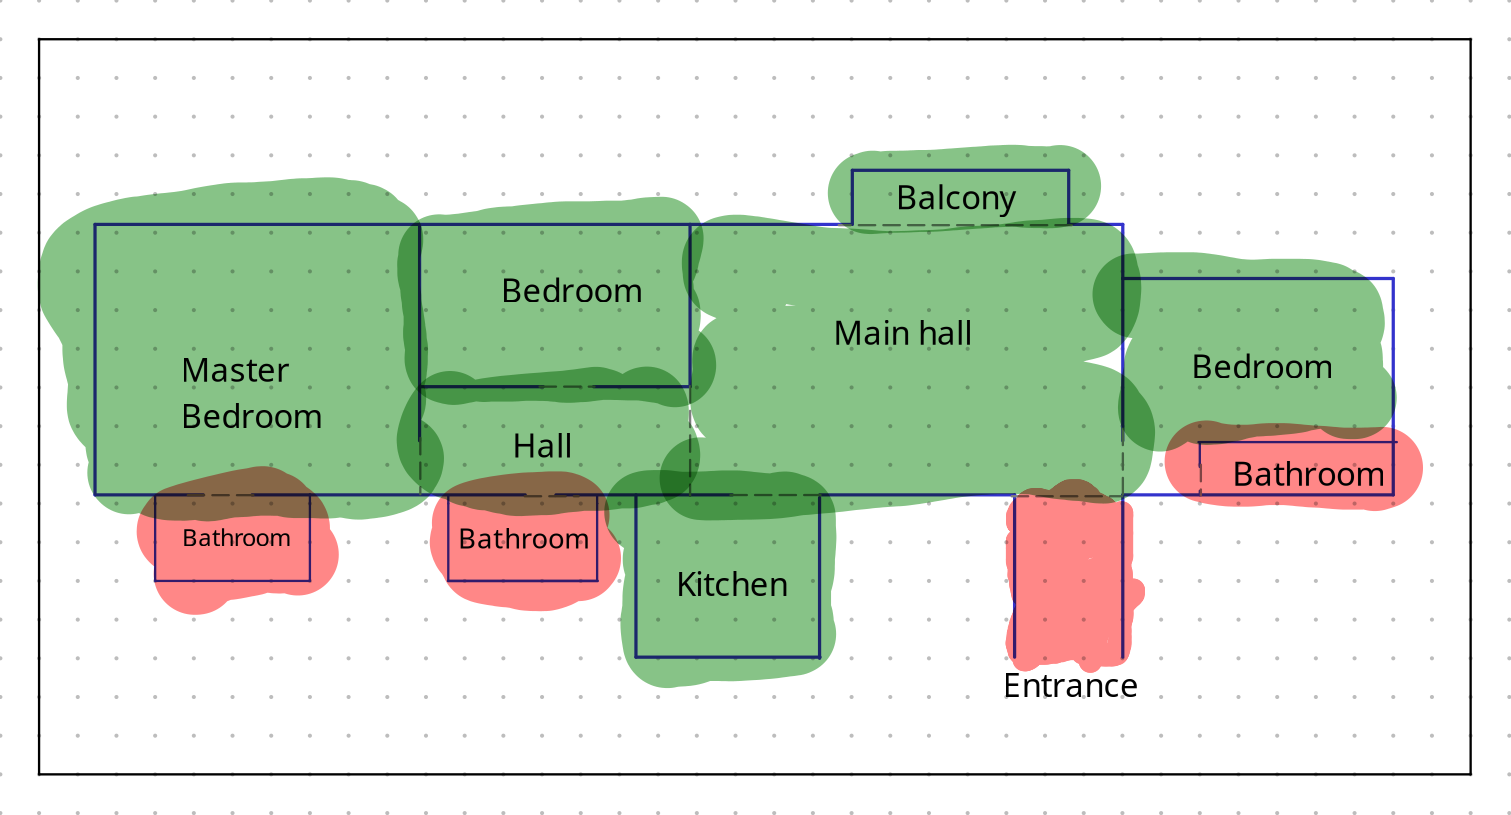
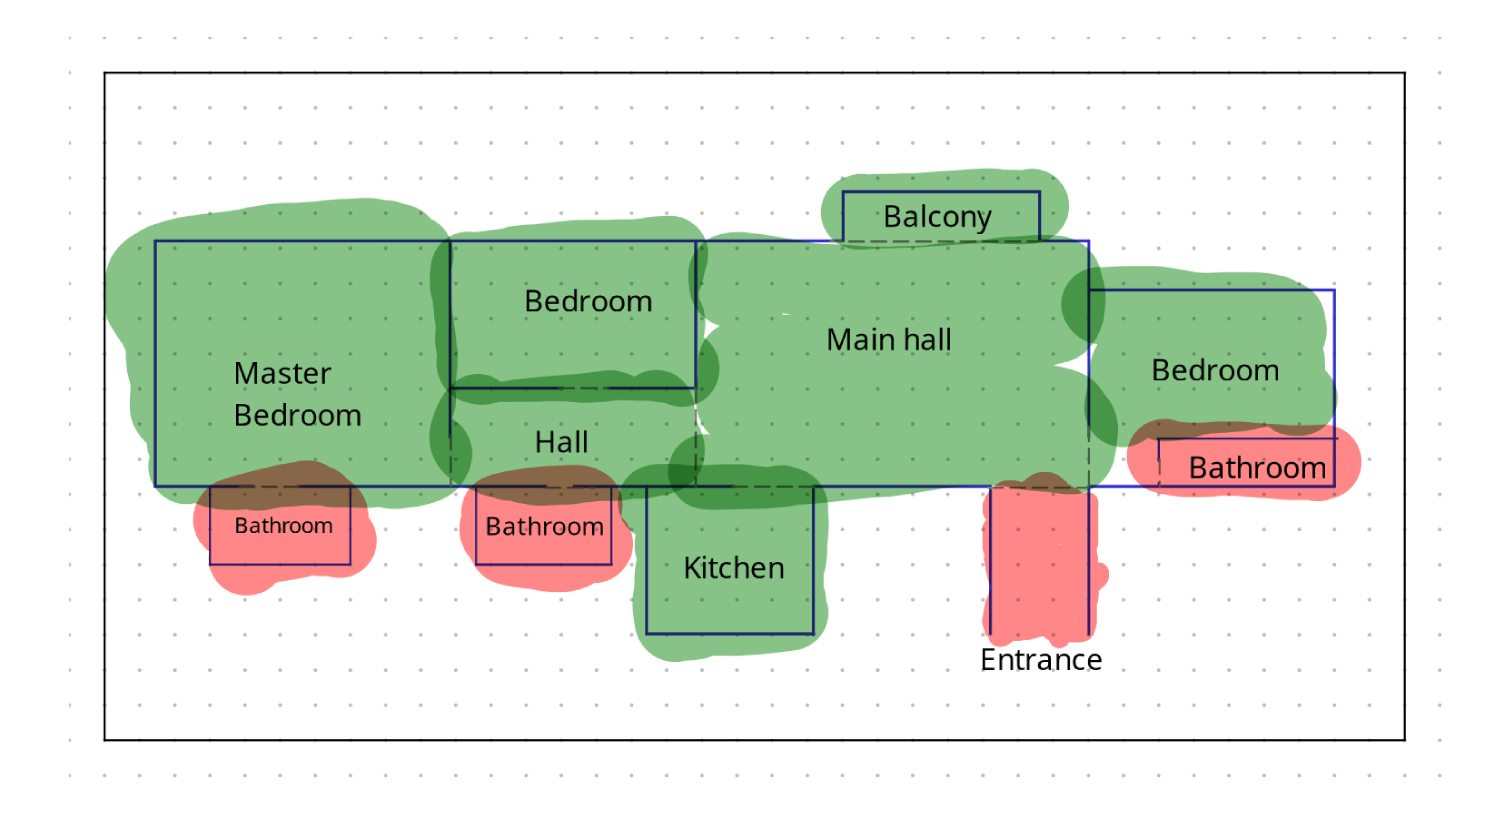
Index content finalized

diff --git a/index.html b/index.html
@@ -4,7 +4,7 @@
     <meta charset="utf-8">
     <meta name="viewport" content="width=device-width, initial-scale=1">
     <meta name="description" content="A student portfolio introducing its author, interests, and selected work.">
-    <title>Introduction — Fieldnotes</title>
+    <title>Introduction — Home</title>
     <link rel="preconnect" href="https://fonts.googleapis.com">
     <link rel="preconnect" href="https://fonts.gstatic.com" crossorigin>
     <link href="https://fonts.googleapis.com/css2?family=DM+Mono:wght@400;500&family=DM+Sans:wght@400;500;600;700&family=Playfair+Display:wght@500;600;700&display=swap" rel="stylesheet">
@@ -12,7 +12,7 @@
   </head>
   <body>
     <header class="site-header">
-      <a class="wordmark" href="index.html" aria-label="Fieldnotes home"><span class="wordmark-mark">F.</span> FIELDNOTES</a>
+      <a class="wordmark" href="index.html" aria-label="Home"><span class="wordmark-mark">H.</span> HOME</a>
       <nav class="site-nav" aria-label="Main navigation">
         <a class="active" aria-current="page" href="index.html">Introduction</a>
         <a href="projects.html">Projects</a>
@@ -64,8 +64,8 @@
             </div>
             <div class="feature-copy">
               <p class="eyebrow">01 / CURRENT PROJECT</p>
-              <h3>Campus energy,<br>made visible.</h3>
-              <p>A sample project exploring how a simple dashboard could help a campus community understand everyday energy use.</p>
+              <h3>Your Home's Energy,<br>at a Glance.</h3>
+              <p>A sample project exploring how a simple dashboard could help you leave your home without the worrying whether you turned off the Heater.</p>
               <span class="text-link">READ THE PROJECT <span aria-hidden="true">↗</span></span>
             </div>
             <span class="feature-arrow" aria-hidden="true">↗</span>
@@ -75,8 +75,8 @@
     </main>
 
     <footer class="site-footer page-shell">
-      <span>FIELDNOTES <span class="footer-muted">— A STUDENT PORTFOLIO TEMPLATE</span></span>
-      <span>MADE WITH CURIOSITY <span aria-hidden="true">✳</span> VIT, VELLORE</span>
+      <span>HOME <span class="footer-muted">— A JOURNEY</span></span>
+      <span>MADE WITH PASSION <span aria-hidden="true">✳</span> VIT, VELLORE</span>
     </footer>
   </body>
 </html>

diff --git a/projects.html b/projects.html
@@ -4,7 +4,7 @@
     <meta charset="utf-8">
     <meta name="viewport" content="width=device-width, initial-scale=1">
     <meta name="description" content="A student project portfolio with methods, progress, and expected results.">
-    <title>Projects — Fieldnotes</title>
+    <title>Projects — Home</title>
     <link rel="preconnect" href="https://fonts.googleapis.com">
     <link rel="preconnect" href="https://fonts.gstatic.com" crossorigin>
     <link href="https://fonts.googleapis.com/css2?family=DM+Mono:wght@400;500&family=DM+Sans:wght@400;500;600;700&family=Playfair+Display:wght@500;600;700&display=swap" rel="stylesheet">
@@ -12,7 +12,7 @@
   </head>
   <body>
     <header class="site-header">
-      <a class="wordmark" href="index.html" aria-label="Fieldnotes home"><span class="wordmark-mark">F.</span> FIELDNOTES</a>
+      <a class="wordmark" href="index.html" aria-label="Home"><span class="wordmark-mark">H.</span> HOME</a>
       <nav class="site-nav" aria-label="Main navigation">
         <a href="index.html">Introduction</a>
         <a class="active" aria-current="page" href="projects.html">Projects</a>
@@ -67,7 +67,7 @@
     </main>
 
     <footer class="site-footer page-shell">
-      <span>FIELDNOTES <span class="footer-muted">— A STUDENT PORTFOLIO TEMPLATE</span></span>
+      <span>HOME <span class="footer-muted">— A STUDENT PORTFOLIO TEMPLATE</span></span>
       <span>MADE WITH CURIOSITY <span aria-hidden="true">✳</span> VIT, VELLORE</span>
     </footer>
   </body>

diff --git a/courses.html b/courses.html
@@ -4,7 +4,7 @@
     <meta charset="utf-8">
     <meta name="viewport" content="width=device-width, initial-scale=1">
     <meta name="description" content="Three important VIT courses and the knowledge and skills gained from them.">
-    <title>Courses — Fieldnotes</title>
+    <title>Courses — Home</title>
     <link rel="preconnect" href="https://fonts.googleapis.com">
     <link rel="preconnect" href="https://fonts.gstatic.com" crossorigin>
     <link href="https://fonts.googleapis.com/css2?family=DM+Mono:wght@400;500&family=DM+Sans:wght@400;500;600;700&family=Playfair+Display:wght@500;600;700&display=swap" rel="stylesheet">
@@ -12,7 +12,7 @@
   </head>
   <body>
     <header class="site-header">
-      <a class="wordmark" href="index.html" aria-label="Fieldnotes home"><span class="wordmark-mark">F.</span> FIELDNOTES</a>
+      <a class="wordmark" href="index.html" aria-label="Home"><span class="wordmark-mark">H.</span> HOME</a>
       <nav class="site-nav" aria-label="Main navigation">
         <a href="index.html">Introduction</a>
         <a href="projects.html">Projects</a>
@@ -66,7 +66,7 @@
     </main>
 
     <footer class="site-footer page-shell">
-      <span>FIELDNOTES <span class="footer-muted">— A STUDENT PORTFOLIO TEMPLATE</span></span>
+      <span>HOME <span class="footer-muted">— A STUDENT PORTFOLIO TEMPLATE</span></span>
       <span>MADE WITH CURIOSITY <span aria-hidden="true">✳</span> VIT, VELLORE</span>
     </footer>
   </body>

diff --git a/writing.html b/writing.html
@@ -4,7 +4,7 @@
     <meta charset="utf-8">
     <meta name="viewport" content="width=device-width, initial-scale=1">
     <meta name="description" content="Two writing sample covers: an English assignment and a subject assignment.">
-    <title>Writing — Fieldnotes</title>
+    <title>Writing — Home</title>
     <link rel="preconnect" href="https://fonts.googleapis.com">
     <link rel="preconnect" href="https://fonts.gstatic.com" crossorigin>
     <link href="https://fonts.googleapis.com/css2?family=DM+Mono:wght@400;500&family=DM+Sans:wght@400;500;600;700&family=Playfair+Display:wght@500;600;700&display=swap" rel="stylesheet">
@@ -12,7 +12,7 @@
   </head>
   <body>
     <header class="site-header">
-      <a class="wordmark" href="index.html" aria-label="Fieldnotes home"><span class="wordmark-mark">F.</span> FIELDNOTES</a>
+      <a class="wordmark" href="index.html" aria-label="Home"><span class="wordmark-mark">H.</span> HOME</a>
       <nav class="site-nav" aria-label="Main navigation">
         <a href="index.html">Introduction</a>
         <a href="projects.html">Projects</a>
@@ -67,7 +67,7 @@
     </main>
 
     <footer class="site-footer page-shell">
-      <span>FIELDNOTES <span class="footer-muted">— A STUDENT PORTFOLIO TEMPLATE</span></span>
+      <span>HOME <span class="footer-muted">— A STUDENT PORTFOLIO TEMPLATE</span></span>
       <span>MADE WITH CURIOSITY <span aria-hidden="true">✳</span> VIT, VELLORE</span>
     </footer>
   </body>

diff --git a/resume.html b/resume.html
@@ -4,7 +4,7 @@
     <meta charset="utf-8">
     <meta name="viewport" content="width=device-width, initial-scale=1">
     <meta name="description" content="A concise, one-page student résumé template.">
-    <title>Résumé — Fieldnotes</title>
+    <title>Résumé — Home</title>
     <link rel="preconnect" href="https://fonts.googleapis.com">
     <link rel="preconnect" href="https://fonts.gstatic.com" crossorigin>
     <link href="https://fonts.googleapis.com/css2?family=DM+Mono:wght@400;500&family=DM+Sans:wght@400;500;600;700&family=Playfair+Display:wght@500;600;700&display=swap" rel="stylesheet">
@@ -12,7 +12,7 @@
   </head>
   <body>
     <header class="site-header">
-      <a class="wordmark" href="index.html" aria-label="Fieldnotes home"><span class="wordmark-mark">F.</span> FIELDNOTES</a>
+      <a class="wordmark" href="index.html" aria-label="Home"><span class="wordmark-mark">H.</span> HOME</a>
       <nav class="site-nav" aria-label="Main navigation">
         <a href="index.html">Introduction</a>
         <a href="projects.html">Projects</a>
@@ -62,7 +62,7 @@
     </main>
 
     <footer class="site-footer page-shell">
-      <span>FIELDNOTES <span class="footer-muted">— A STUDENT PORTFOLIO TEMPLATE</span></span>
+      <span>HOME <span class="footer-muted">— A STUDENT PORTFOLIO TEMPLATE</span></span>
       <span>MADE WITH CURIOSITY <span aria-hidden="true">✳</span> VIT, VELLORE</span>
     </footer>
   </body>
